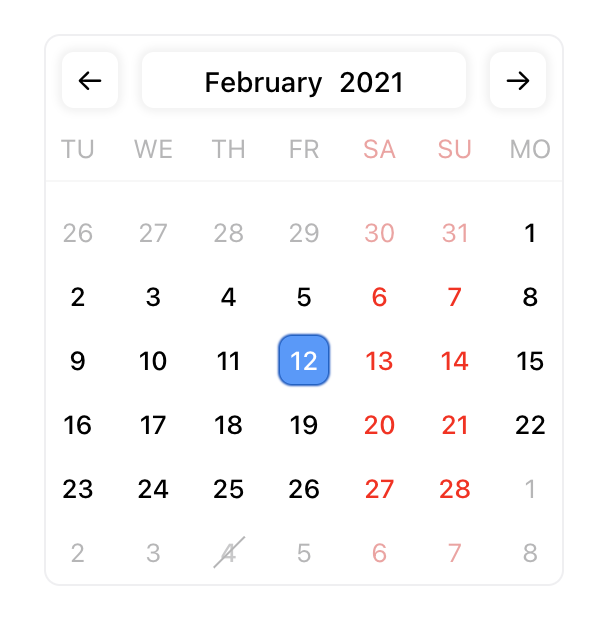
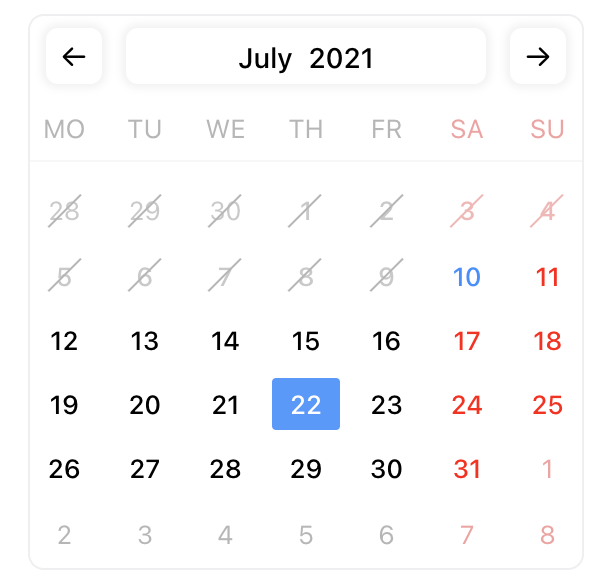
update images

diff --git a/README.md b/README.md
@@ -25,6 +25,10 @@ https://codepen.io/ashfaqace/pen/RpyYdG
 
 ## Images
 
+### Date Range view
+
+![Month Dates View](./images/range.png)
+
 ### Days of month view
 
 ![Month Dates View](./images/view-1.png)
